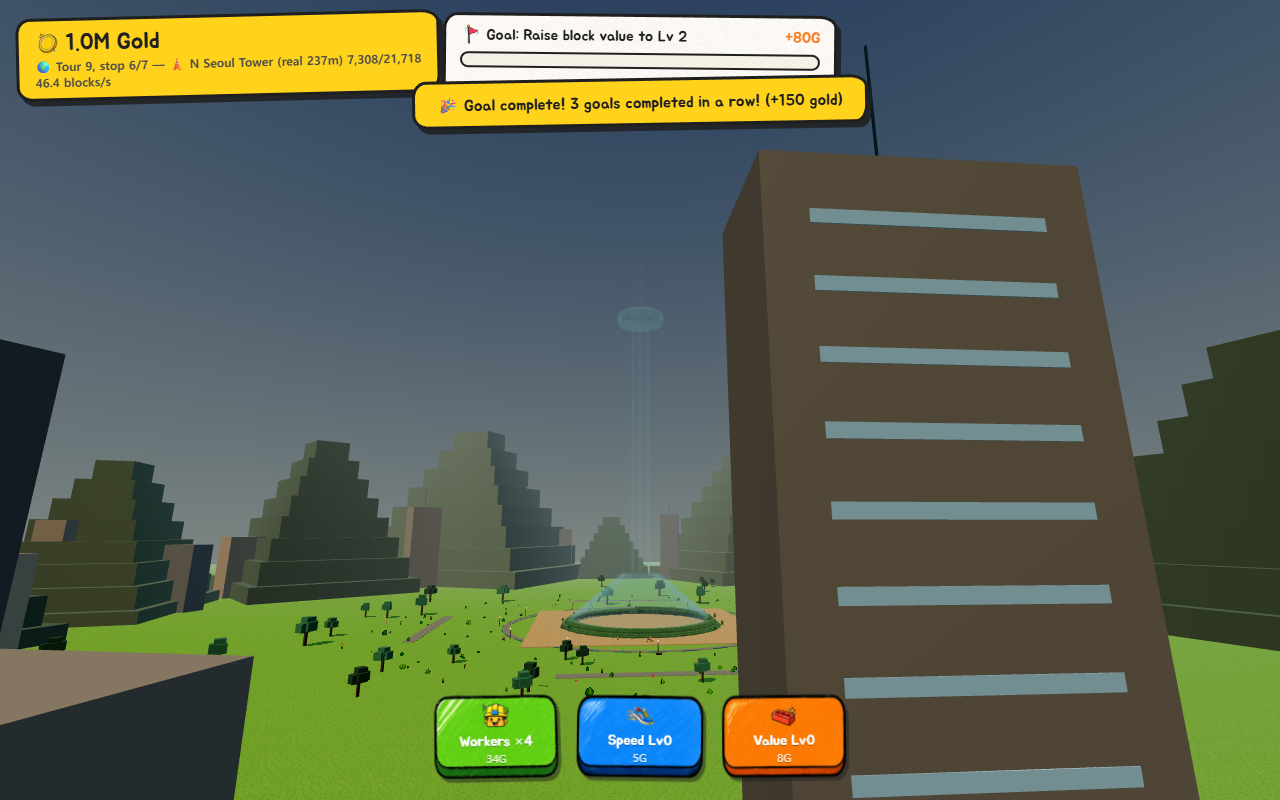
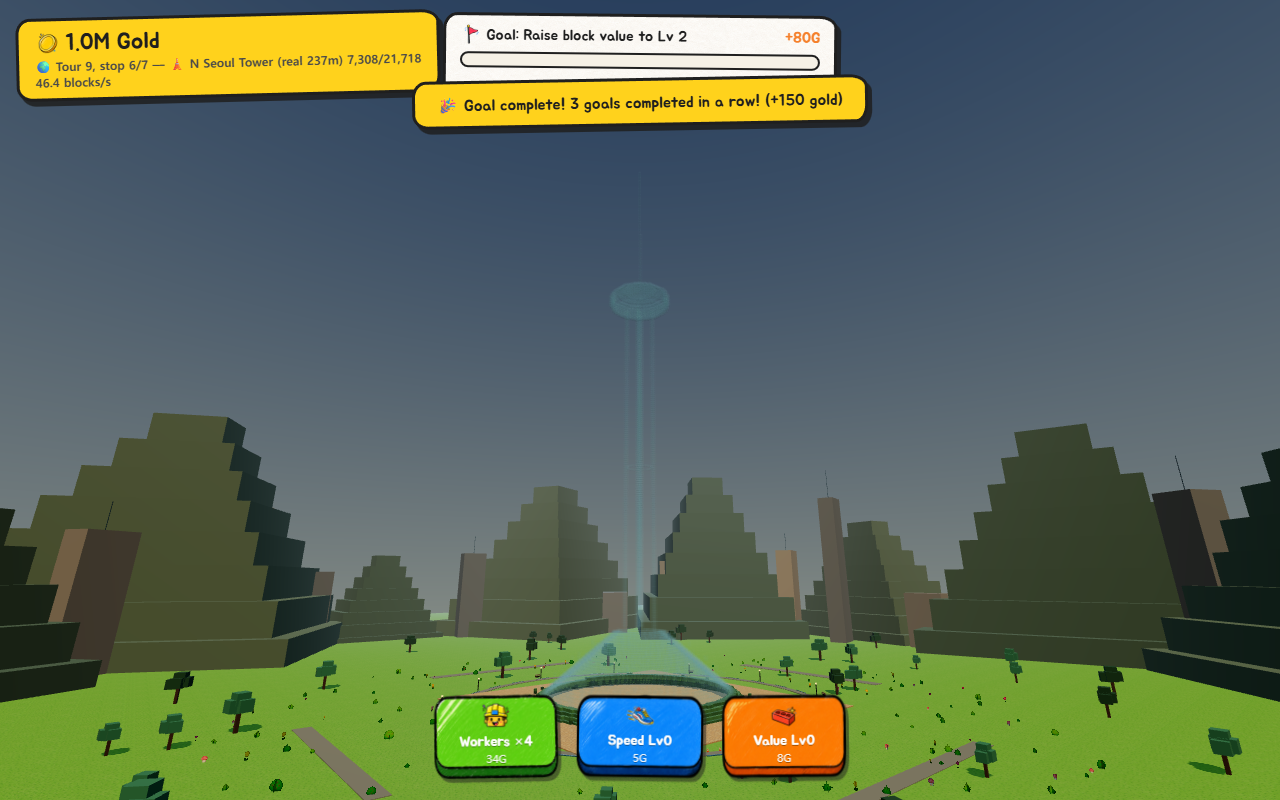
Tower: altitude-band atmosphere (Ground/Sky/Ozone/Space) — sky, fog, sun, starfield blend with view height; HUD zone+altitude chip; clouds capped to troposphere

diff --git a/apps/client/src/world/atmosphere.ts b/apps/client/src/world/atmosphere.ts
@@ -1,0 +1,160 @@
+import * as THREE from "three";
+
+/**
+ * Altitude-band atmosphere for the tower: the world's look is a pure function
+ * of the view height (y), blended piecewise through four zones —
+ * Ground → Sky → Ozone Layer → Space. Purely visual and client-side; physics,
+ * networking and the level itself are untouched.
+ */
+
+interface ZoneStop {
+  /** Fraction of the summit height at which this look fully applies. */
+  frac: number;
+  sky: number;
+  fogColor: number;
+  fogNear: number;
+  fogFar: number;
+  sunIntensity: number;
+  sunColor: number;
+  hemiIntensity: number;
+  /** 0..1 starfield opacity. */
+  stars: number;
+}
+
+const STOPS: ZoneStop[] = [
+  // ground: the game's classic bright day
+  { frac: 0.0, sky: 0x7ec8f0, fogColor: 0x9fd8f5, fogNear: 60, fogFar: 160, sunIntensity: 2.0, sunColor: 0xfff4d6, hemiIntensity: 0.9, stars: 0 },
+  // sky: thinner, paler air
+  { frac: 0.35, sky: 0xa9dcf8, fogColor: 0xc3e7fa, fogNear: 70, fogFar: 210, sunIntensity: 2.05, sunColor: 0xfff8e6, hemiIntensity: 0.85, stars: 0 },
+  // ozone layer: deep indigo, first stars
+  { frac: 0.65, sky: 0x2e4e94, fogColor: 0x41629d, fogNear: 90, fogFar: 280, sunIntensity: 2.2, sunColor: 0xffffff, hemiIntensity: 0.6, stars: 0.35 },
+  // space: near-black, harsh white sun, full starfield
+  { frac: 0.9, sky: 0x05080f, fogColor: 0x05080f, fogNear: 130, fogFar: 380, sunIntensity: 2.5, sunColor: 0xffffff, hemiIntensity: 0.32, stars: 1 },
+];
+
+/** HUD band names — chosen by fraction, independent of the visual blend. */
+const ZONE_LABELS: { upTo: number; label: string }[] = [
+  { upTo: 0.3, label: "🌱 Ground" },
+  { upTo: 0.6, label: "☁️ Sky" },
+  { upTo: 0.85, label: "🌀 Ozone Layer" },
+  { upTo: Infinity, label: "🌌 Space" },
+];
+
+const STAR_COUNT = 900;
+
+export class Atmosphere {
+  private summit = 60;
+  private frac = 0; // smoothed view fraction
+  private readonly stars: THREE.Points;
+  private readonly starMaterial: THREE.PointsMaterial;
+  private readonly skyColor = new THREE.Color();
+  private readonly fogColor = new THREE.Color();
+  private readonly sunColor = new THREE.Color();
+
+  constructor(
+    private readonly scene: THREE.Scene,
+    private readonly sun: THREE.DirectionalLight,
+    private readonly hemi: THREE.HemisphereLight,
+  ) {
+    // starfield shell around the tower, far outside the play column
+    const positions = new Float32Array(STAR_COUNT * 3);
+    for (let i = 0; i < STAR_COUNT; i++) {
+      const u = Math.random() * Math.PI * 2;
+      const v = Math.acos(2 * Math.random() - 1);
+      const r = 280 + Math.random() * 60;
+      positions[i * 3] = r * Math.sin(v) * Math.cos(u);
+      positions[i * 3 + 1] = Math.abs(r * Math.cos(v)); // upper hemisphere only
+      positions[i * 3 + 2] = r * Math.sin(v) * Math.sin(u);
+    }
+    const geo = new THREE.BufferGeometry();
+    geo.setAttribute("position", new THREE.BufferAttribute(positions, 3));
+    this.starMaterial = new THREE.PointsMaterial({
+      color: 0xffffff,
+      size: 2.1,
+      sizeAttenuation: false,
+      transparent: true,
+      opacity: 0,
+      depthWrite: false,
+    });
+    this.stars = new THREE.Points(geo, this.starMaterial);
+    this.stars.visible = false;
+    this.stars.renderOrder = -1;
+    scene.add(this.stars);
+  }
+
+  /** Call on every (re)build — bands scale with the day's tower. */
+  setSummit(summitHeight: number): void {
+    this.summit = Math.max(1, summitHeight);
+    this.stars.position.y = this.summit * 0.6;
+  }
+
+  /** HUD band label for a given height (meters). */
+  zoneLabel(y: number): string {
+    const f = y / this.summit;
+    for (const z of ZONE_LABELS) if (f < z.upTo) return z.label;
+    return ZONE_LABELS[ZONE_LABELS.length - 1]!.label;
+  }
+
+  /** Blend the world's look toward the band at view height `y` (meters). */
+  update(y: number, dt: number): void {
+    const target = Math.min(Math.max(y / this.summit, 0), 1);
+    // frame-rate independent smoothing — respawn teleports fade, not snap
+    this.frac += (target - this.frac) * (1 - Math.pow(0.002, dt));
+
+    const p = this.paramsAt(this.frac);
+    (this.scene.background as THREE.Color).copy(p.sky);
+    const fog = this.scene.fog as THREE.Fog;
+    fog.color.copy(p.fog);
+    fog.near = p.fogNear;
+    fog.far = p.fogFar;
+    this.sun.intensity = p.sunIntensity;
+    this.sun.color.copy(p.sun);
+    this.hemi.intensity = p.hemiIntensity;
+
+    this.starMaterial.opacity = p.stars;
+    this.stars.visible = p.stars > 0.02;
+    if (this.stars.visible) this.stars.rotation.y += dt * 0.004;
+  }
+
+  private readonly blended = {
+    sky: this.skyColor,
+    fog: this.fogColor,
+    sun: this.sunColor,
+    fogNear: 60,
+    fogFar: 160,
+    sunIntensity: 2,
+    hemiIntensity: 0.9,
+    stars: 0,
+  };
+
+  private paramsAt(frac: number) {
+    const out = this.blended;
+    const last = STOPS[STOPS.length - 1]!;
+    let a = STOPS[0]!;
+    let b = STOPS[0]!;
+    let t = 0;
+    if (frac >= last.frac) {
+      a = b = last;
+    } else {
+      for (let i = 1; i < STOPS.length; i++) {
+        if (frac <= STOPS[i]!.frac) {
+          a = STOPS[i - 1]!;
+          b = STOPS[i]!;
+          t = (frac - a.frac) / (b.frac - a.frac);
+          break;
+        }
+      }
+    }
+    out.sky.setHex(a.sky).lerp(this.tmp.setHex(b.sky), t);
+    out.fog.setHex(a.fogColor).lerp(this.tmp.setHex(b.fogColor), t);
+    out.sun.setHex(a.sunColor).lerp(this.tmp.setHex(b.sunColor), t);
+    out.fogNear = a.fogNear + (b.fogNear - a.fogNear) * t;
+    out.fogFar = a.fogFar + (b.fogFar - a.fogFar) * t;
+    out.sunIntensity = a.sunIntensity + (b.sunIntensity - a.sunIntensity) * t;
+    out.hemiIntensity = a.hemiIntensity + (b.hemiIntensity - a.hemiIntensity) * t;
+    out.stars = a.stars + (b.stars - a.stars) * t;
+    return out;
+  }
+
+  private readonly tmp = new THREE.Color();
+}

diff --git a/apps/client/src/app/game.ts b/apps/client/src/app/game.ts
@@ -21,6 +21,7 @@ import { KeyboardInput } from "../input/keyboard.js";
 import { TouchInput } from "../input/touch.js";
 import { LevelRuntime } from "../world/levelRuntime.js";
 import { Scenery } from "../world/scenery.js";
+import { Atmosphere } from "../world/atmosphere.js";
 import { FoliagePatch, pickFoliageType, type FoliagePlacement } from "../world/foliage.js";
 import { LocalPlayer } from "../player/localPlayer.js";
 import { NetworkClient, type DailyInfo } from "../net/client.js";
@@ -79,6 +80,7 @@ export class Game {
   private readonly input = new InputState();
   private readonly followCamera: FollowCamera;
   private readonly effects: Effects;
+  private readonly atmosphere: Atmosphere;
   private readonly sfx = new Sfx();
   private readonly bgm = new Bgm("/audio/bgm-tower.mp3");
   private readonly hud: Hud;
@@ -116,6 +118,7 @@ export class Game {
     }
 
     this.effects = new Effects(this.renderer.scene);
+    this.atmosphere = new Atmosphere(this.renderer.scene, this.renderer.sun, this.renderer.hemi);
     this.hud = new Hud(document.body);
     this.hud.setVisible(false);
     this.screens = new Screens(document.body, {
@@ -185,6 +188,7 @@ export class Game {
 
   private buildWorld(seed: number): WorldBundle {
     const level = generateLevel(seed);
+    this.atmosphere.setSummit(level.summitHeight);
     const runtime = new LevelRuntime(level, this.renderer.scene, this.physics, this.interpStore);
     const scenery = new Scenery(this.renderer.scene, level.summitHeight);
     const foliage = new FoliagePatch(this.renderer.scene, this.foliagePlacements(level));
@@ -397,6 +401,7 @@ export class Game {
       this.screens.updateCountdown(this.daily.nextDayStartMs - serverNow);
     }
 
+    let viewY: number;
     if (this.state === "title") {
       // slow cinematic orbit around the tower
       const midY = this.world.level.summitHeight * 0.45;
@@ -404,16 +409,23 @@ export class Game {
       this.renderer.camera.position.set(Math.cos(angle) * 34, midY + 12, Math.sin(angle) * 34);
       this.renderer.camera.lookAt(0, midY, 0);
       this.renderer.trackTarget(new THREE.Vector3(0, midY, 0));
+      viewY = midY;
     } else {
       player.headPosition(alpha, this.headPos);
       this.followCamera.update(this.headPos, this.physics, player.controller.collider);
       this.renderer.trackTarget(this.headPos);
+      viewY = this.headPos.y;
     }
+    // altitude bands: sky/fog/sun/stars follow the view up the tower
+    this.atmosphere.update(viewY, frameDt);
 
     if (this.state !== "title") {
       const level = this.world.level;
+      const altitudeM = player.controller.feetPosition()[1];
       this.hud.update({
-        heightPercent: (player.controller.feetPosition()[1] / level.summitHeight) * 100,
+        heightPercent: (altitudeM / level.summitHeight) * 100,
+        altitudeM,
+        zoneLabel: this.atmosphere.zoneLabel(altitudeM),
         runTimeMs: this.state === "clear" ? this.finalTimeMs : this.runTimeMs,
         stage: Math.min(player.checkpoint + 2, level.totalStages),
         totalStages: level.totalStages,

diff --git a/apps/client/src/ui/hud.ts b/apps/client/src/ui/hud.ts
@@ -1,5 +1,9 @@
 export interface HudData {
   heightPercent: number;
+  /** Feet height in meters — shown with the altitude-zone chip. */
+  altitudeM: number;
+  /** Current atmosphere band (Ground / Sky / Ozone Layer / Space). */
+  zoneLabel: string;
   runTimeMs: number;
   stage: number;
   totalStages: number;
@@ -19,6 +23,7 @@ export function formatTime(ms: number): string {
 /** DOM HUD — cheap text updates, no canvas involvement. */
 export class Hud {
   private readonly root: HTMLElement;
+  private readonly zoneEl: HTMLElement;
   private readonly heightEl: HTMLElement;
   private readonly timeEl: HTMLElement;
   private readonly stageEl: HTMLElement;
@@ -32,6 +37,7 @@ export class Hud {
     this.root.className = "hud";
     this.root.innerHTML = `
       <div class="hud-top">
+        <span class="hud-chip" data-id="zone">🌱 Ground 0m</span>
         <span class="hud-chip" data-id="height">0%</span>
         <span class="hud-chip" data-id="time">0:00.00</span>
         <span class="hud-chip" data-id="stage">1/4</span>
@@ -46,6 +52,7 @@ export class Hud {
       if (!el) throw new Error(`hud element ${id} missing`);
       return el;
     };
+    this.zoneEl = q("zone");
     this.heightEl = q("height");
     this.timeEl = q("time");
     this.stageEl = q("stage");
@@ -60,10 +67,12 @@ export class Hud {
 
   update(d: HudData): void {
     // skip DOM writes when nothing changed
-    const text = `${Math.round(d.heightPercent)}|${Math.floor(d.runTimeMs / 10)}|${d.stage}|${d.falls}|${d.playerCount}|${d.connection}`;
+    const altitude = Math.max(0, Math.round(d.altitudeM));
+    const text = `${Math.round(d.heightPercent)}|${altitude}|${d.zoneLabel}|${Math.floor(d.runTimeMs / 10)}|${d.stage}|${d.falls}|${d.playerCount}|${d.connection}`;
     if (text === this.lastText) return;
     this.lastText = text;
 
+    this.zoneEl.textContent = `${d.zoneLabel} ${altitude}m`;
     this.heightEl.textContent = `${Math.max(0, Math.min(100, Math.round(d.heightPercent)))}%`;
     this.timeEl.textContent = formatTime(d.runTimeMs);
     this.stageEl.textContent = `${d.stage}/${d.totalStages}`;

diff --git a/apps/client/src/world/scenery.ts b/apps/client/src/world/scenery.ts
@@ -31,7 +31,9 @@ export class Scenery {
         puff.position.set(j * s * 1.05 - puffs, R(-0.3, 0.3), R(-0.5, 0.5));
         cloud.add(puff);
       }
-      cloud.position.set(R(-70, 70), R(2, summitHeight + 12), R(-70, 70));
+      // clouds live in the troposphere only — the ozone/space bands above
+      // (see world/atmosphere.ts) should read as thin air, not cloud soup
+      cloud.position.set(R(-70, 70), R(2, summitHeight * 0.55), R(-70, 70));
       scene.add(cloud);
       this.roots.push(cloud);
       this.clouds.push({ mesh: cloud, speed: R(0.15, 0.55) });
@@ -48,7 +50,7 @@ export class Scenery {
       const dist = R(28, 60);
       island.position.set(
         Math.cos(angle) * dist,
-        R(4, summitHeight + 6),
+        R(4, summitHeight * 0.6),
         Math.sin(angle) * dist,
       );
       scene.add(island);